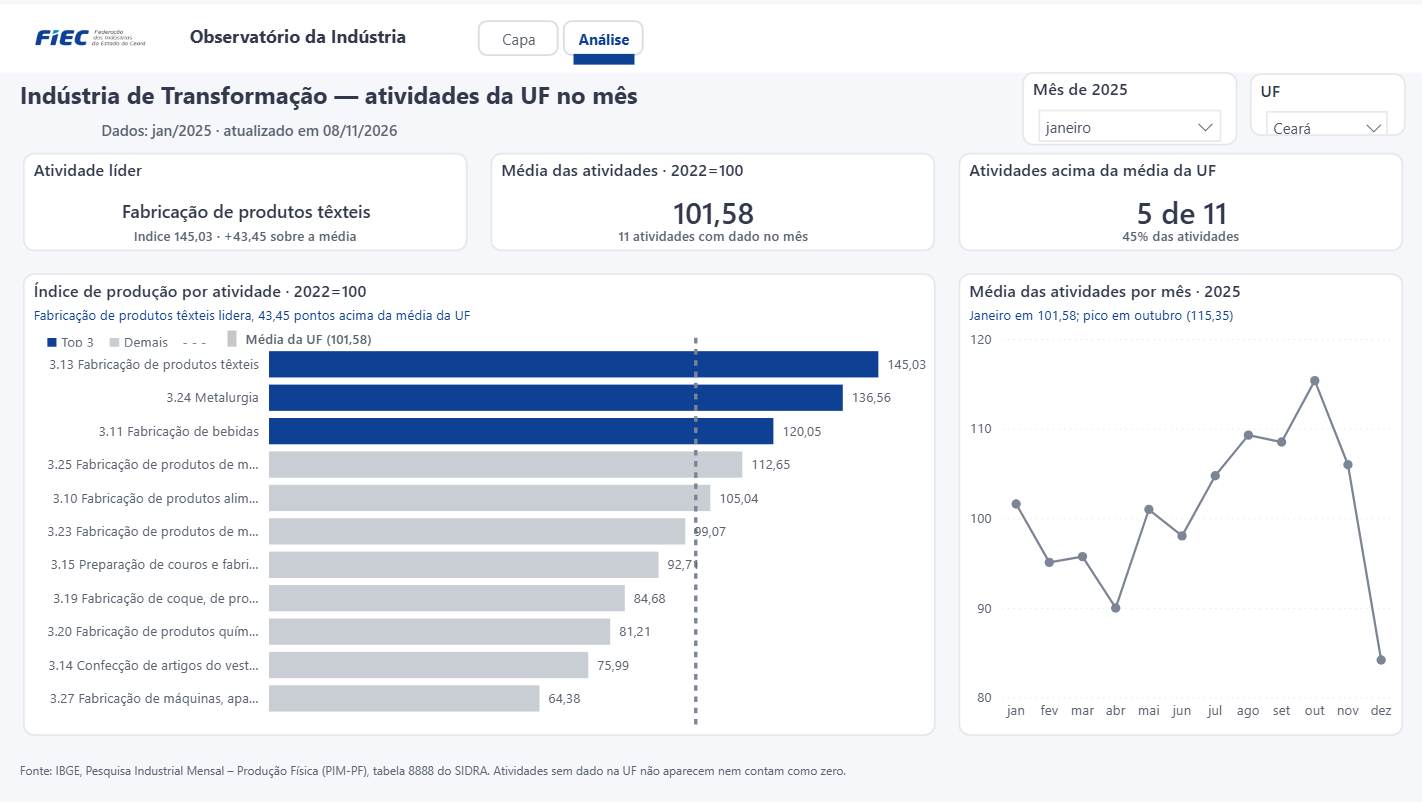
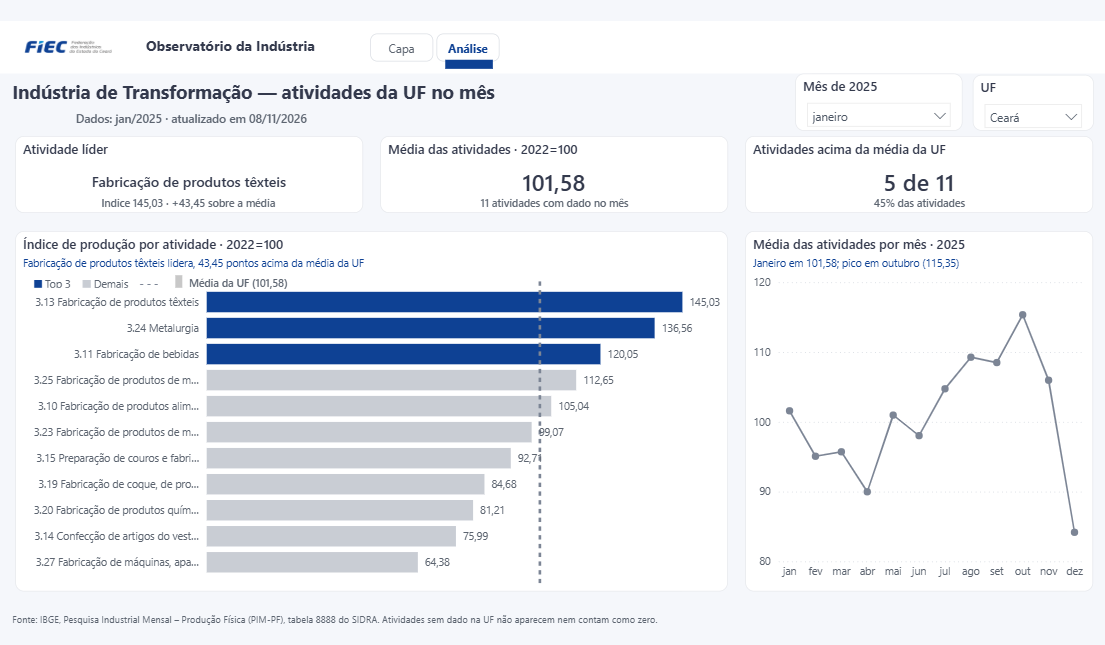
docs(readme): print do painel real com link para o relatório no workspace

diff --git a/README.md b/README.md
@@ -113,9 +113,9 @@ No Git Bash do Windows, defina `MSYS_NO_PATHCONV=1` antes de comandos que tenham
 
 ## Como abrir o painel
 
-[![Tela de análise do painel no Power BI: Ceará, janeiro de 2025](docs/painel-power-bi.png)](https://app.powerbi.com/view?r=eyJrIjoiNmNlMTFiZmUtMjYwOS00ZWZmLWIwZTYtYWU0MzY1ZTNhZTQwIiwidCI6IjJlMDg2ODMxLTlkNTAtNDA4Zi04MWMzLTM5Zjc0OTZmYzNmNiJ9)
+[![Tela de análise do painel no Power BI: Ceará, janeiro de 2025](docs/painel-power-bi.png)](https://app.powerbi.com/groups/de98009a-bde0-4468-b154-2f9d17d352f7/reports/24fac210-7462-4c64-93d3-d82dca607eb1/analise?language=pt-BR&experience=power-bi)
 
-Clique na imagem para abrir o [painel publicado no Power BI](https://app.powerbi.com/view?r=eyJrIjoiNmNlMTFiZmUtMjYwOS00ZWZmLWIwZTYtYWU0MzY1ZTNhZTQwIiwidCI6IjJlMDg2ODMxLTlkNTAtNDA4Zi04MWMzLTM5Zjc0OTZmYzNmNiJ9), que abre no navegador e não exige login.
+Clique na imagem para abrir o [painel no Power BI](https://app.powerbi.com/groups/de98009a-bde0-4468-b154-2f9d17d352f7/reports/24fac210-7462-4c64-93d3-d82dca607eb1/analise?language=pt-BR&experience=power-bi), direto na tela de análise. O link abre o relatório no workspace e pede login na conta Microsoft.
 
 O painel segue o [mockup](mockup/observatorio-mockup.html) aprovado. As decisões de cada visual estão no
 [racional](mockup/observatorio-mockup-racional.md). O PBIP é gerado a partir desse desenho por `powerbi/ferramentas/gerar_pbip.py`.

diff --git a/docs/historico.md b/docs/historico.md
@@ -7,14 +7,14 @@ Modelo de entrada: **O que foi feito**, **Decisões**, **Pendências**.
 
 ### O que foi feito
 
-- README: a seção "Como abrir o painel" mostra o print da tela de análise (`docs/painel-power-bi.png`).
-  A imagem leva ao painel publicado no Power BI, que abre no navegador.
-- O desenho do mockup saiu do README e continua citado por link.
+- README: a seção "Como abrir o painel" mostra o print da tela de análise do painel real
+  (`docs/painel-power-bi.png`), e não mais o desenho do mockup, que continua citado por link.
+- A imagem leva à tela de análise do relatório no workspace do Power BI Service.
 
 ### Decisões
 
-- O link é de "Publicar na Web": qualquer pessoa com ele vê o painel. Os dados são públicos (IBGE), então não há
-  risco de exposição.
+- O link aponta para o relatório no workspace, e não para "Publicar na Web". Por isso, pede login na conta
+  Microsoft e acesso ao workspace.
 
 ## 2026-11-08: Tabela analítica `fato_producao_fisica_industrial_2025`
 
